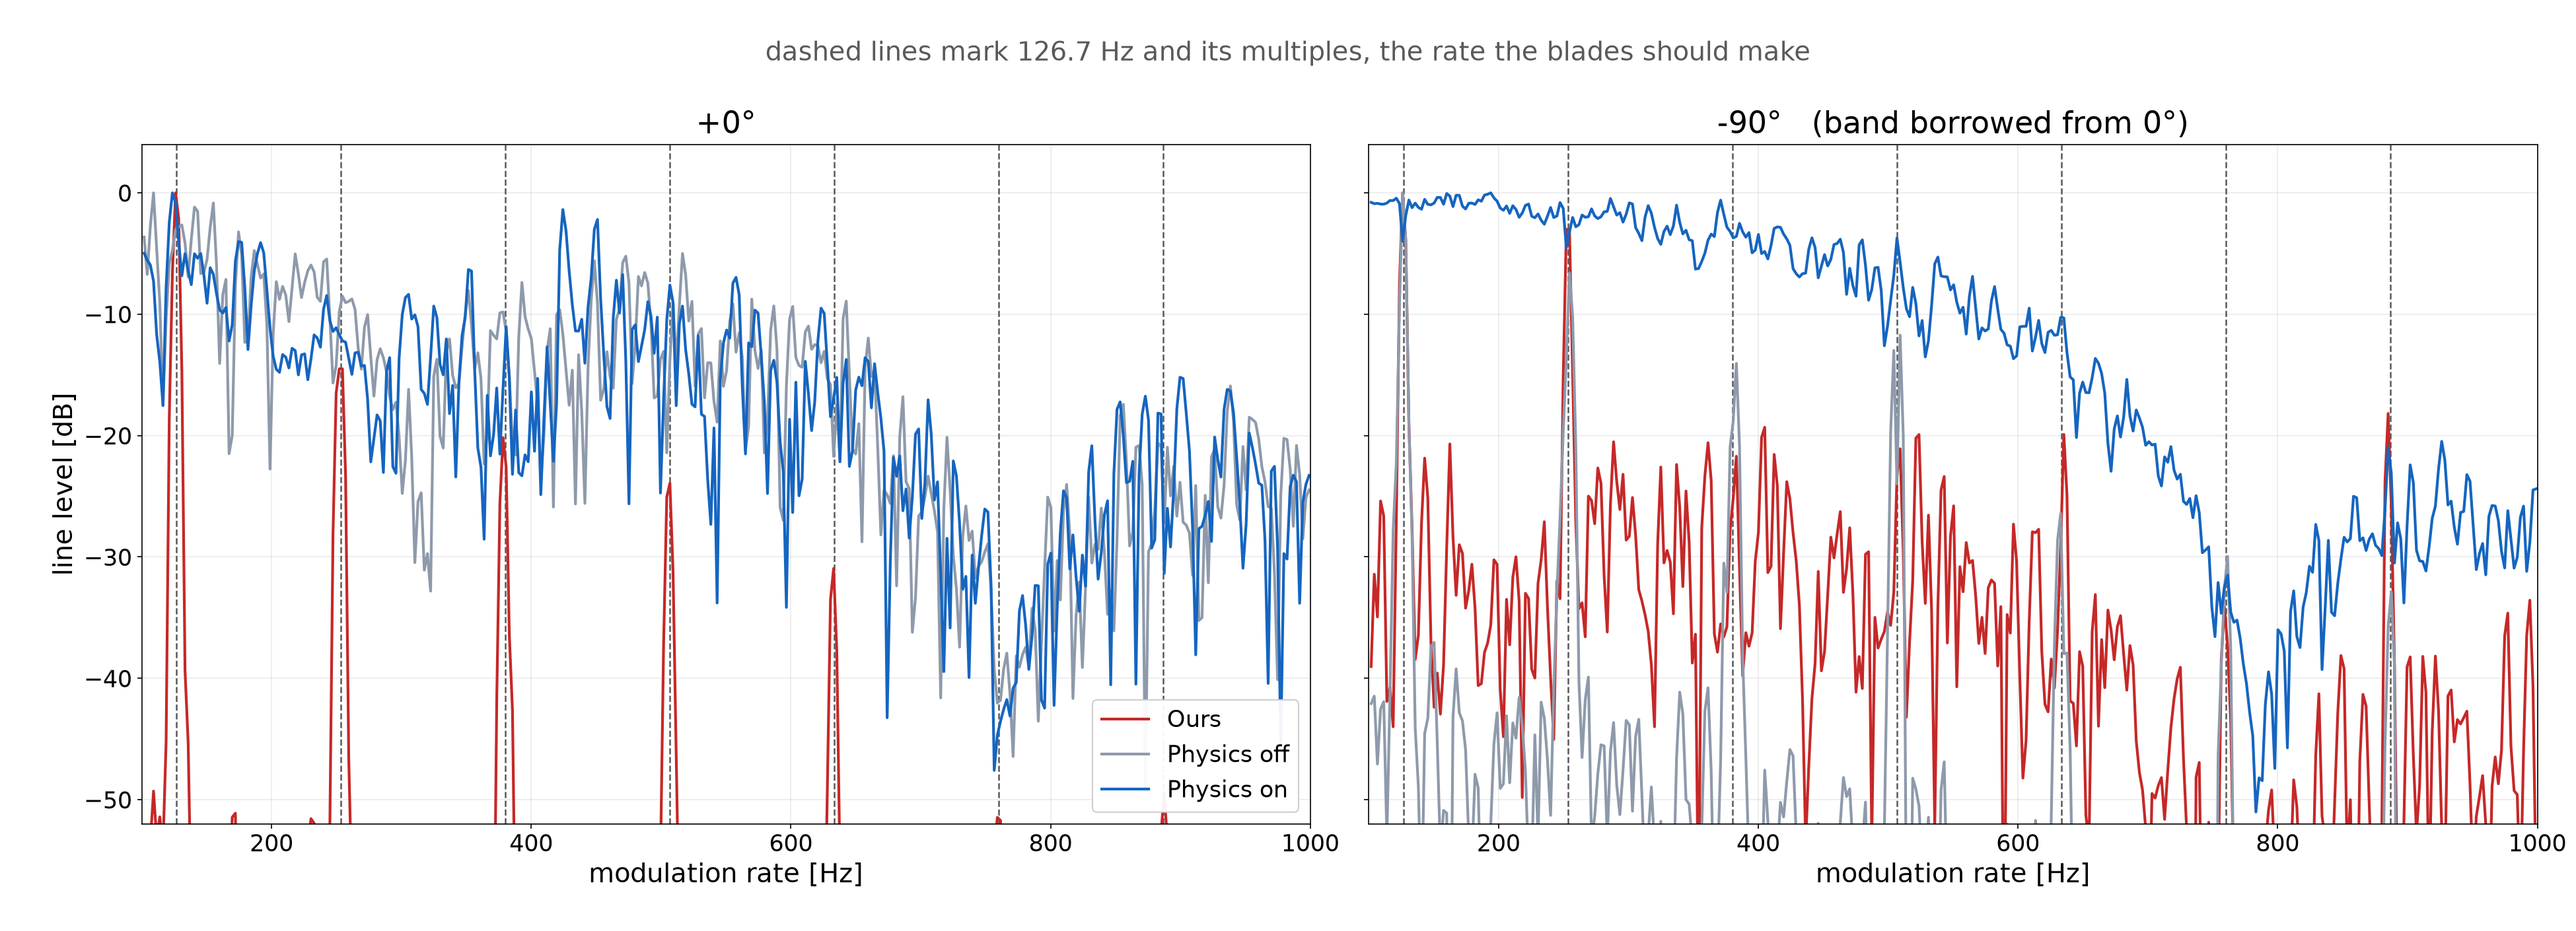
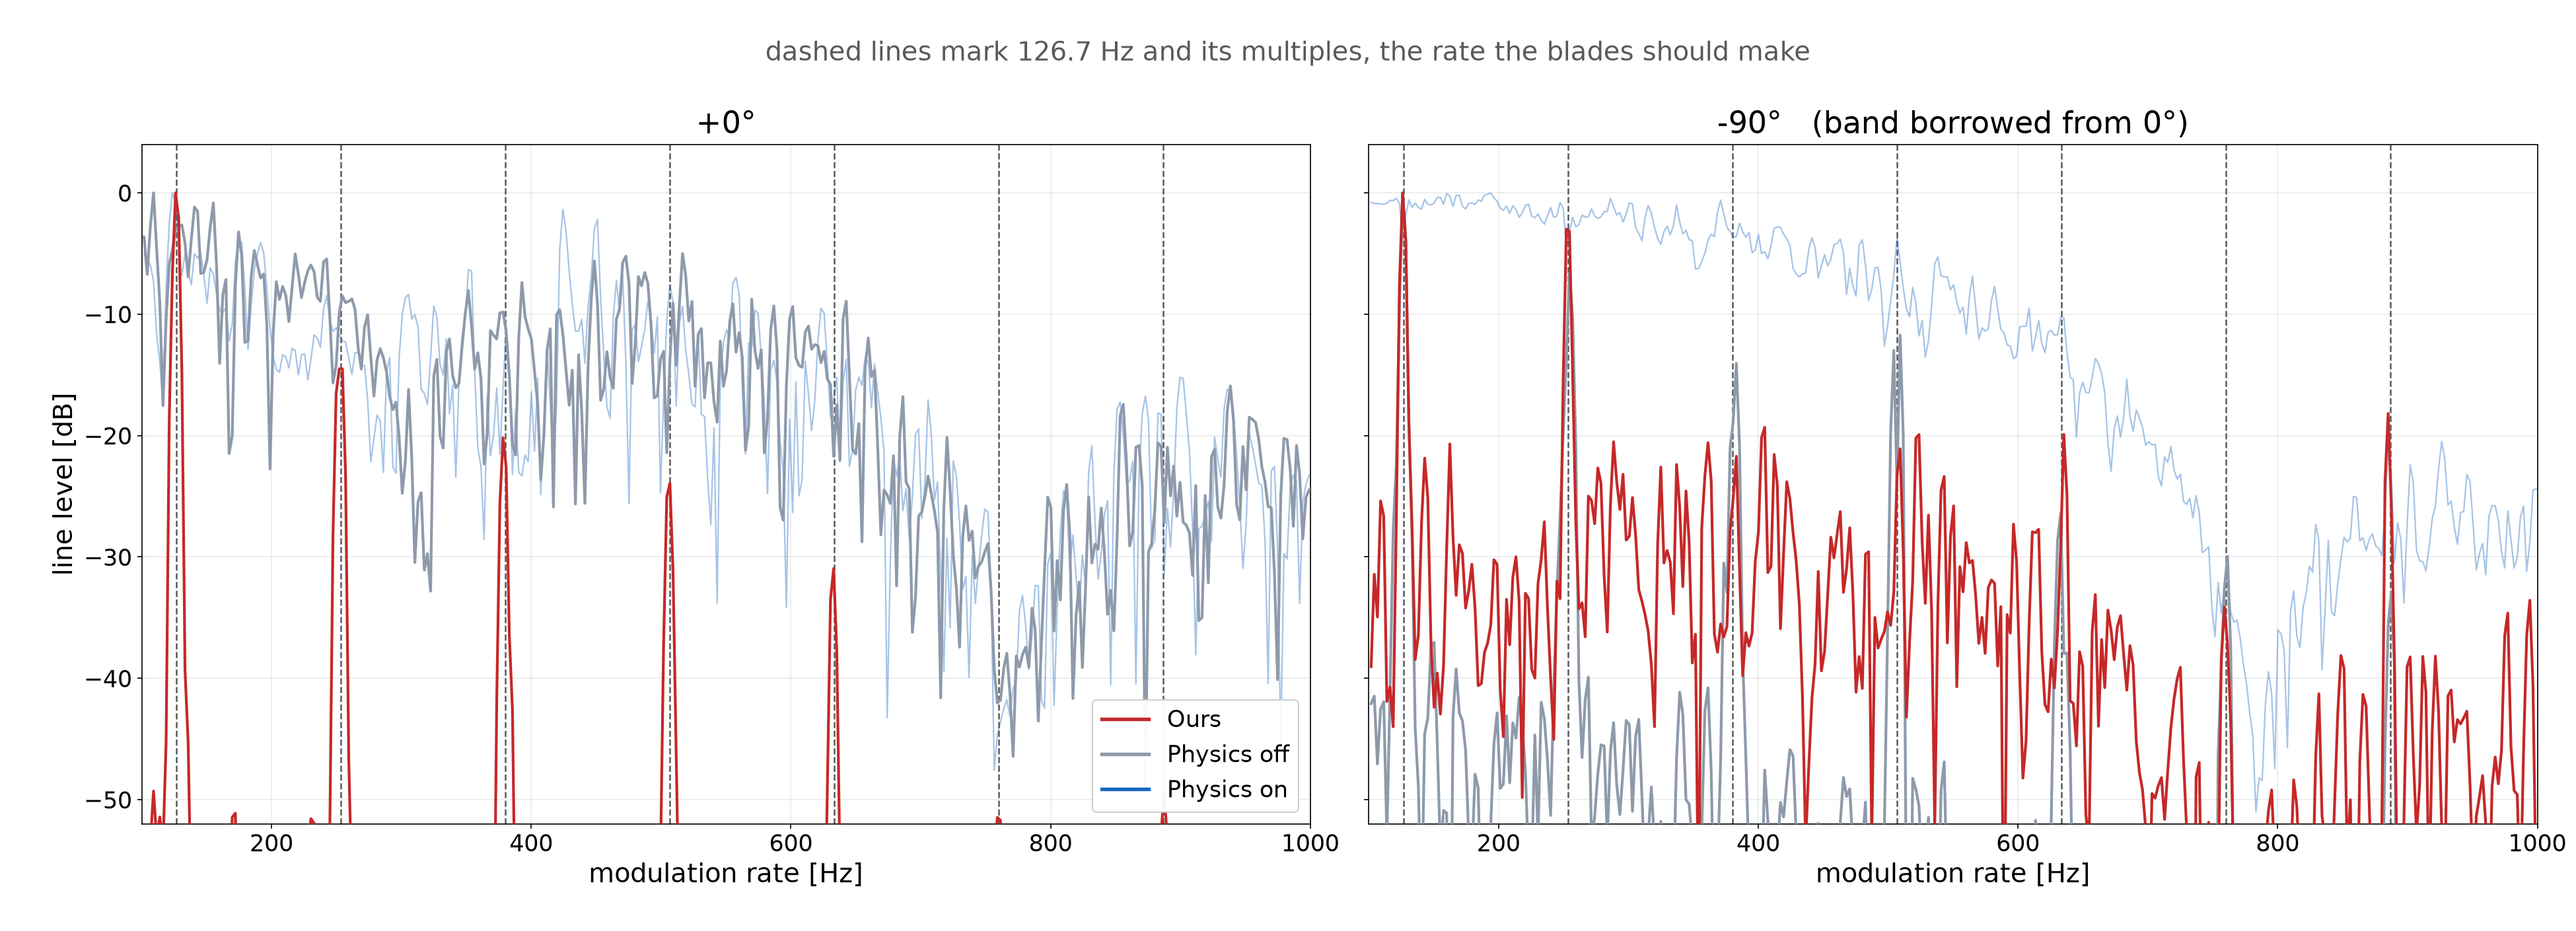
덱 그림: 물리 켬 곡선을 연하게 (사용자 지시 - 난잡해서 안 보임)
- LINE_STYLE 신설: physics on 만 lw 2.0->1.1, alpha 0.38, zorder 뒤로
  (지우는 것이 아니라 뒤로 물리는 것이라 '선이 안 서고 바닥이 출렁인다' 판정은 유지)
- opaque_legend(): 범례 표본만 불투명 복원 - 연한 선이 범례에서 안 보이는 것 방지
- 재생성: deck_be_{wide,zoom}_{3060,0090} + deck_be_props3 (덱 14/15/16/17/26장)
  ⭐병합 착지 전 현재 원장으로 구움 - 발표 직전에 덱 수치가 바뀌지 않도록

diff --git a/benchmark/build_deck_maps.py b/benchmark/build_deck_maps.py
@@ -59,6 +59,26 @@ ARMS = [
 SHORT = {"Our kernel": "Ours", "Sionna, physics off": "Physics off",
          "Sionna, physics on": "Physics on"}
 
+#: ⭐**물리 켬 곡선은 연하게 그린다** (사용자 지시 2026-08-17: «너무 난잡해서 보기 힘들어»).
+#  이 팔은 선이 서지 않고 바닥이 출렁이는 것이 판정 내용이라, 곡선 하나가 화면의 절반을
+#  덮으면서 **정작 봐야 할 빨강·회색 빗살을 가린다**. 그래서 굵기를 줄이고 투명하게,
+#  그리고 뒤로 보낸다 — 지우는 것이 아니라 뒤로 물리는 것이라 판정은 그대로 선다.
+#  ⚠범례 표본만은 불투명하게 되돌린다(연한 선은 범례에서 안 보인다).
+LINE_STYLE = {
+    "Our kernel":          dict(lw=2.0, alpha=1.00, zorder=4),
+    "Sionna, physics off": dict(lw=2.0, alpha=1.00, zorder=3),
+    "Sionna, physics on":  dict(lw=1.1, alpha=0.38, zorder=2),
+}
+
+
+def opaque_legend(a, **kw):
+    """범례를 그리되 표본선은 불투명·굵게 — 연한 곡선도 범례에서는 보이게."""
+    leg = a.legend(**kw)
+    for h in leg.legend_handles:
+        h.set_alpha(1.0)
+        h.set_linewidth(2.6)
+    return leg
+
 #: 잘라 볼 구간 — 앞쪽 20 ms 를 건너뛰고 60 ms. 플래시가 여러 번 지나가는 길이다.
 T0, TSPAN = 0.020, 0.060
 
@@ -282,9 +302,9 @@ def band_energy_spectrum(pairs=(((0.0, -30.0), "a"), ((-60.0, -90.0), "b"))):
                     for arm, nm in ARMS[:narm]:
                         fr, Y, borrowed = modspec(arm, el)
                         m = (fr >= lo) & (fr <= hi)
-                        a.plot(fr[m], 10 * np.log10(Y[m] / Y[m].max()), lw=2.0,
+                        a.plot(fr[m], 10 * np.log10(Y[m] / Y[m].max()),
                                color=cols[[x[0] for x in ARMS].index(arm)],
-                               label=SHORT[nm])
+                               label=SHORT[nm], **LINE_STYLE[nm])
                     for k in range(max(1, int(np.ceil(lo / FFL))), int(hi / FFL) + 1):
                         a.axvline(k * FFL, color="0.35", ls="--", lw=1.2, zorder=1)
                     a.set_xlim(lo, hi)
@@ -299,7 +319,7 @@ def band_energy_spectrum(pairs=(((0.0, -30.0), "a"), ((-60.0, -90.0), "b"))):
                     a.set_axisbelow(True)
                     if j == 0:
                         a.set_ylabel("line level [dB]")
-                        a.legend(fontsize=17, loc="lower right", framealpha=0.95)
+                        opaque_legend(a, fontsize=17, loc="lower right", framealpha=0.95)
                 fig.subplots_adjust(top=0.845, bottom=0.115, left=0.055, right=0.985,
                                     wspace=0.05)
                 fig.text(0.5, 0.935, f"dashed lines mark {FFL:.1f} Hz and its "
@@ -473,8 +493,8 @@ def props_compare():
         for arm, nm, col in P_ARMS:
             fr, Y = modspec(Es[arm])
             m = (fr >= lo) & (fr <= hi)
-            a.plot(fr[m], 10 * np.log10(Y[m] / Y[m].max()), lw=2.0, color=col,
-                   label=SHORT.get(nm, nm))
+            a.plot(fr[m], 10 * np.log10(Y[m] / Y[m].max()), color=col,
+                   label=SHORT.get(nm, nm), **LINE_STYLE[nm])
         for k in range(max(1, int(np.ceil(lo / FFL))), int(hi / FFL) + 1):
             a.axvline(k * FFL, color="0.35", ls="--", lw=1.2, zorder=1)
         a.set_xlim(lo, hi)
@@ -488,7 +508,7 @@ def props_compare():
         a.set_axisbelow(True)
         if j == 0:
             a.set_ylabel("line level [dB]")
-            a.legend(fontsize=17, loc="lower right", framealpha=0.95)
+            opaque_legend(a, fontsize=17, loc="lower right", framealpha=0.95)
     fig.subplots_adjust(top=0.845, bottom=0.115, left=0.055, right=0.985, wspace=0.05)
     fig.text(0.5, 0.935, f"propellers only at 0{chr(176)}, dashed lines mark "
                          f"{FFL:.1f} Hz and its multiples, the rate the blades "
